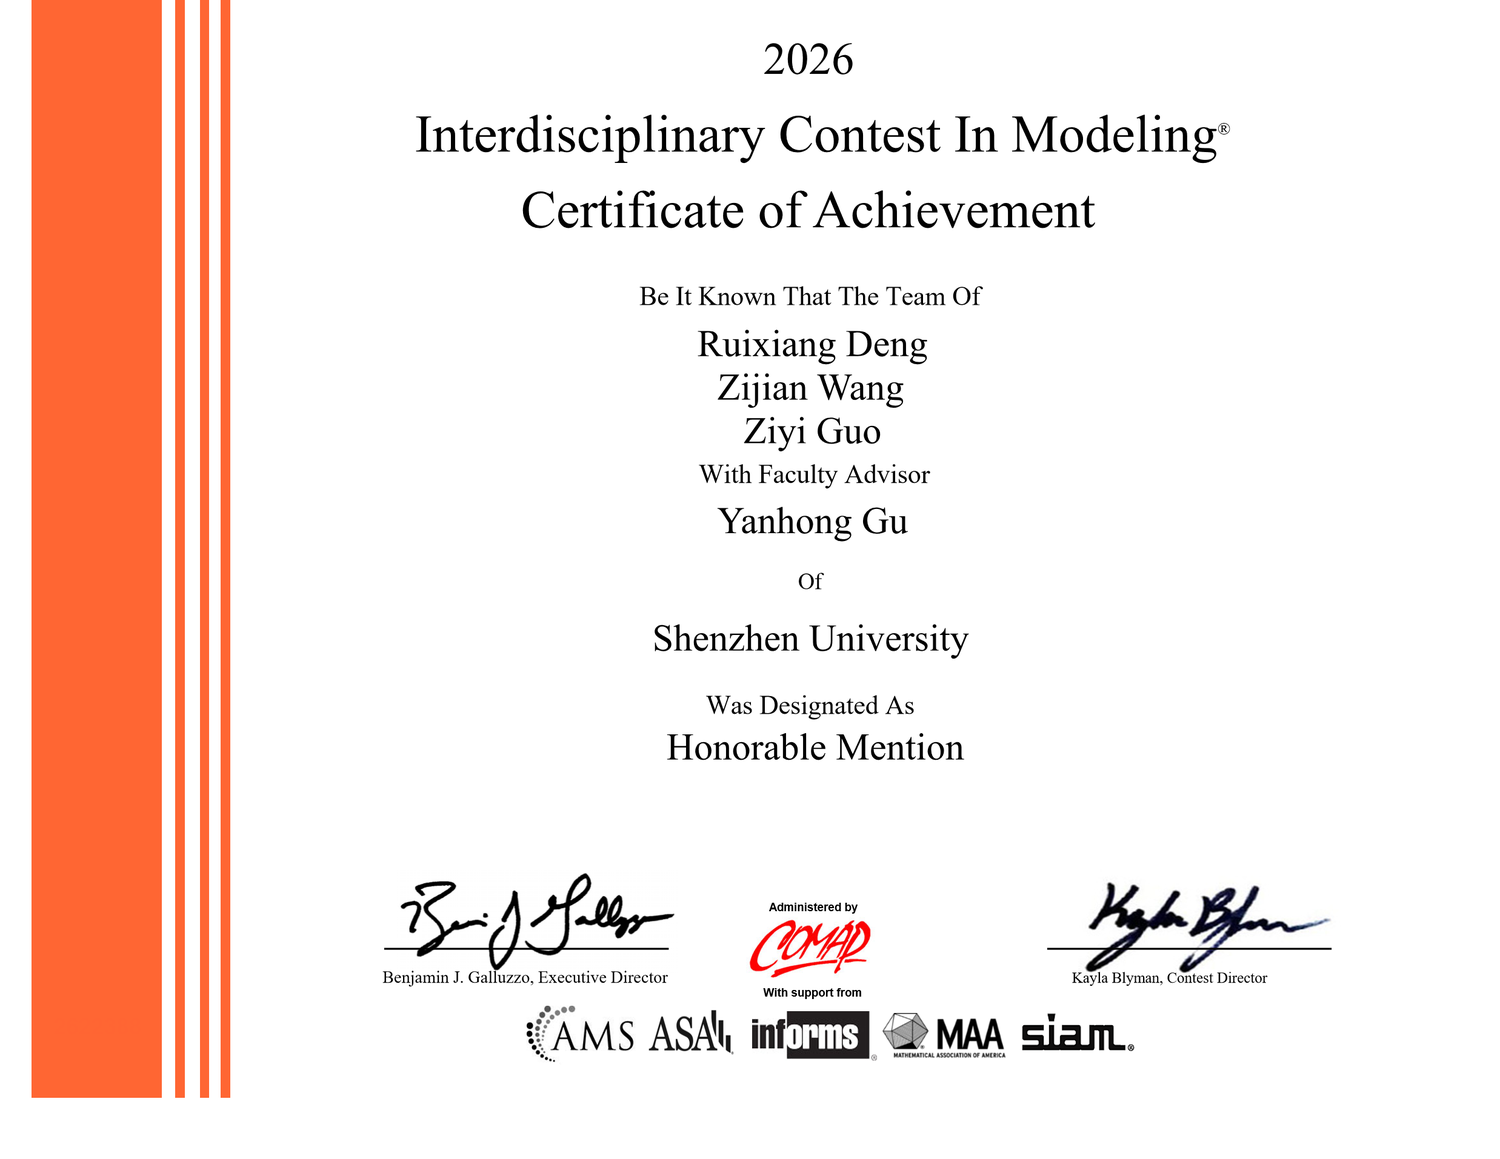
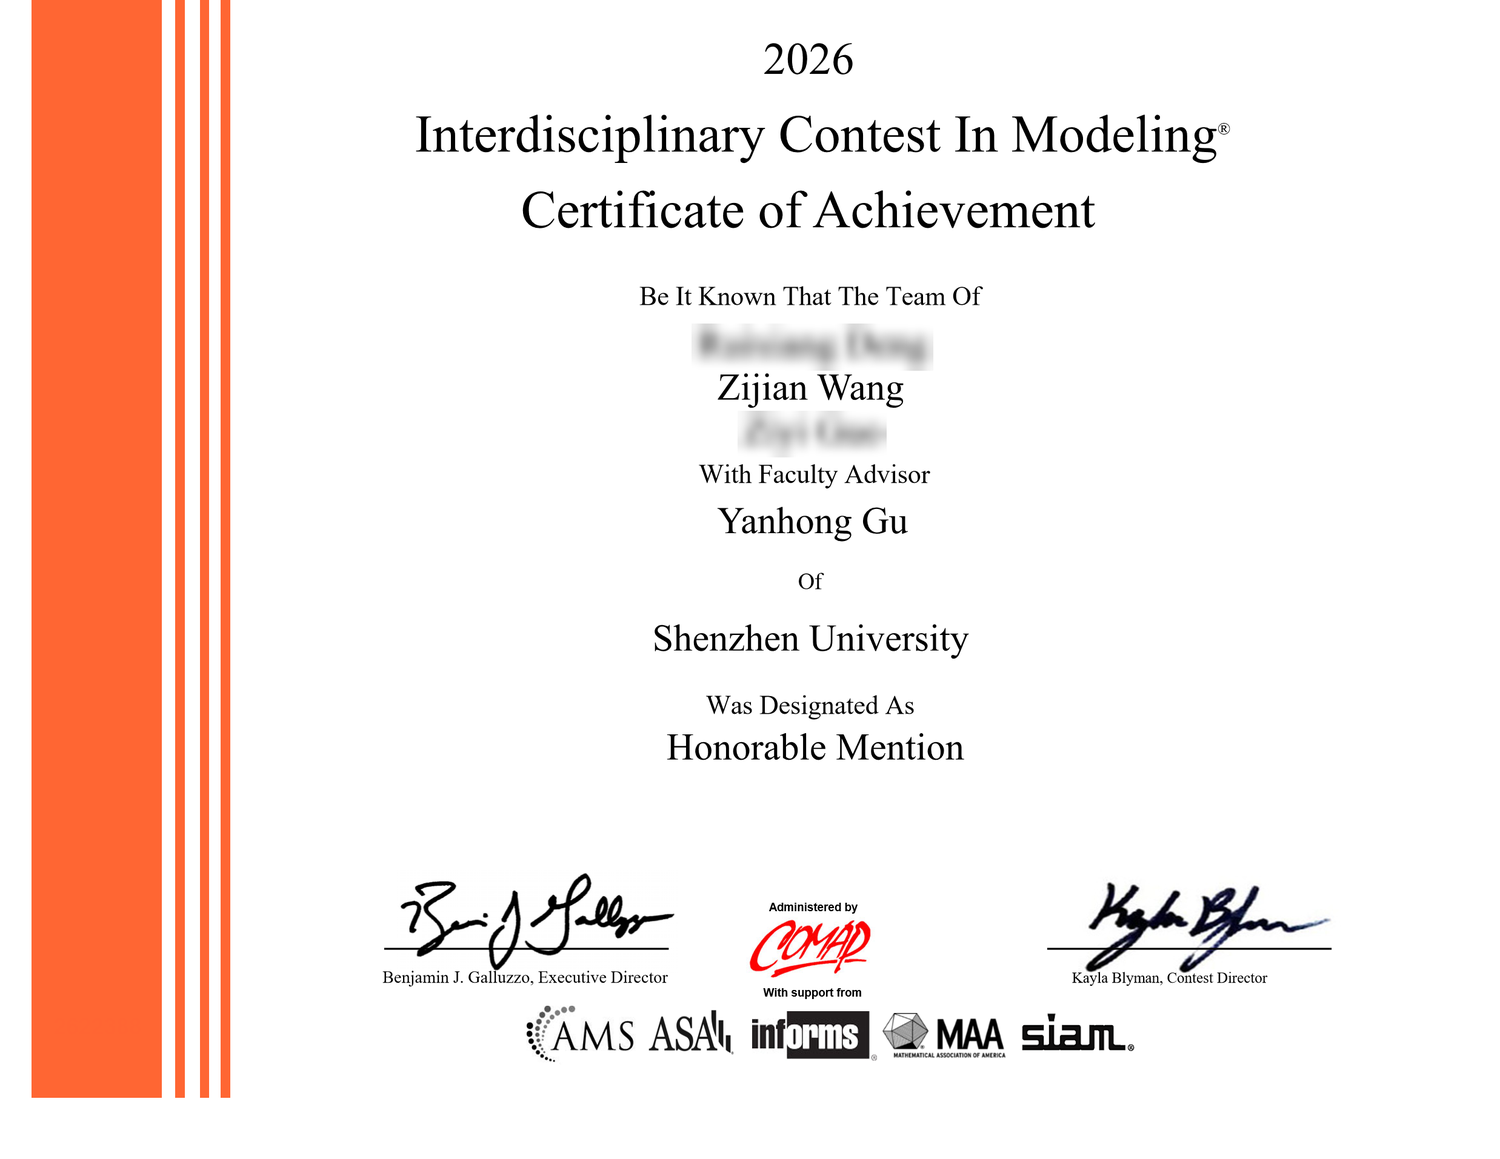
Blur teammate names on certificates; note privacy handling in README

Changed region(s): [[0.46, 0.2796, 0.644, 0.4038]]

diff --git a/README.md b/README.md
@@ -2,7 +2,7 @@
 
 深圳大学 计算机科学与技术（2024.09–2028.06）｜ 求职方向：**AI 算法实习（ASR 训练与微调）** · 数据 / 后端
 
-一个单页简历 + 获奖与认证证书。证书已做脱敏处理：身份证号、准考证号、证书编号、二维码均已遮盖，原件可在面试时提供核验。
+一个单页简历 + 获奖与认证证书。证书已做脱敏处理：身份证号、准考证号、证书编号、二维码均已遮盖，同队成员姓名已模糊处理，原件可在面试时提供核验。
 
 ---
 
@@ -49,6 +49,6 @@
 
 ## 说明
 
-- 证书图片仅用于求职背景核验，已去除身份证号、准考证号、证书编号与二维码等可用于身份核验的信息。
+- 证书图片仅用于求职背景核验，已去除身份证号、准考证号、证书编号与二维码等可用于身份核验的信息；同队成员姓名已模糊处理，指导教师署名保留。
 - 未经本人许可，请勿转载、二次发布或用于其他用途。
 - 本仓库不包含身份证件、成绩系统账号等敏感材料。
